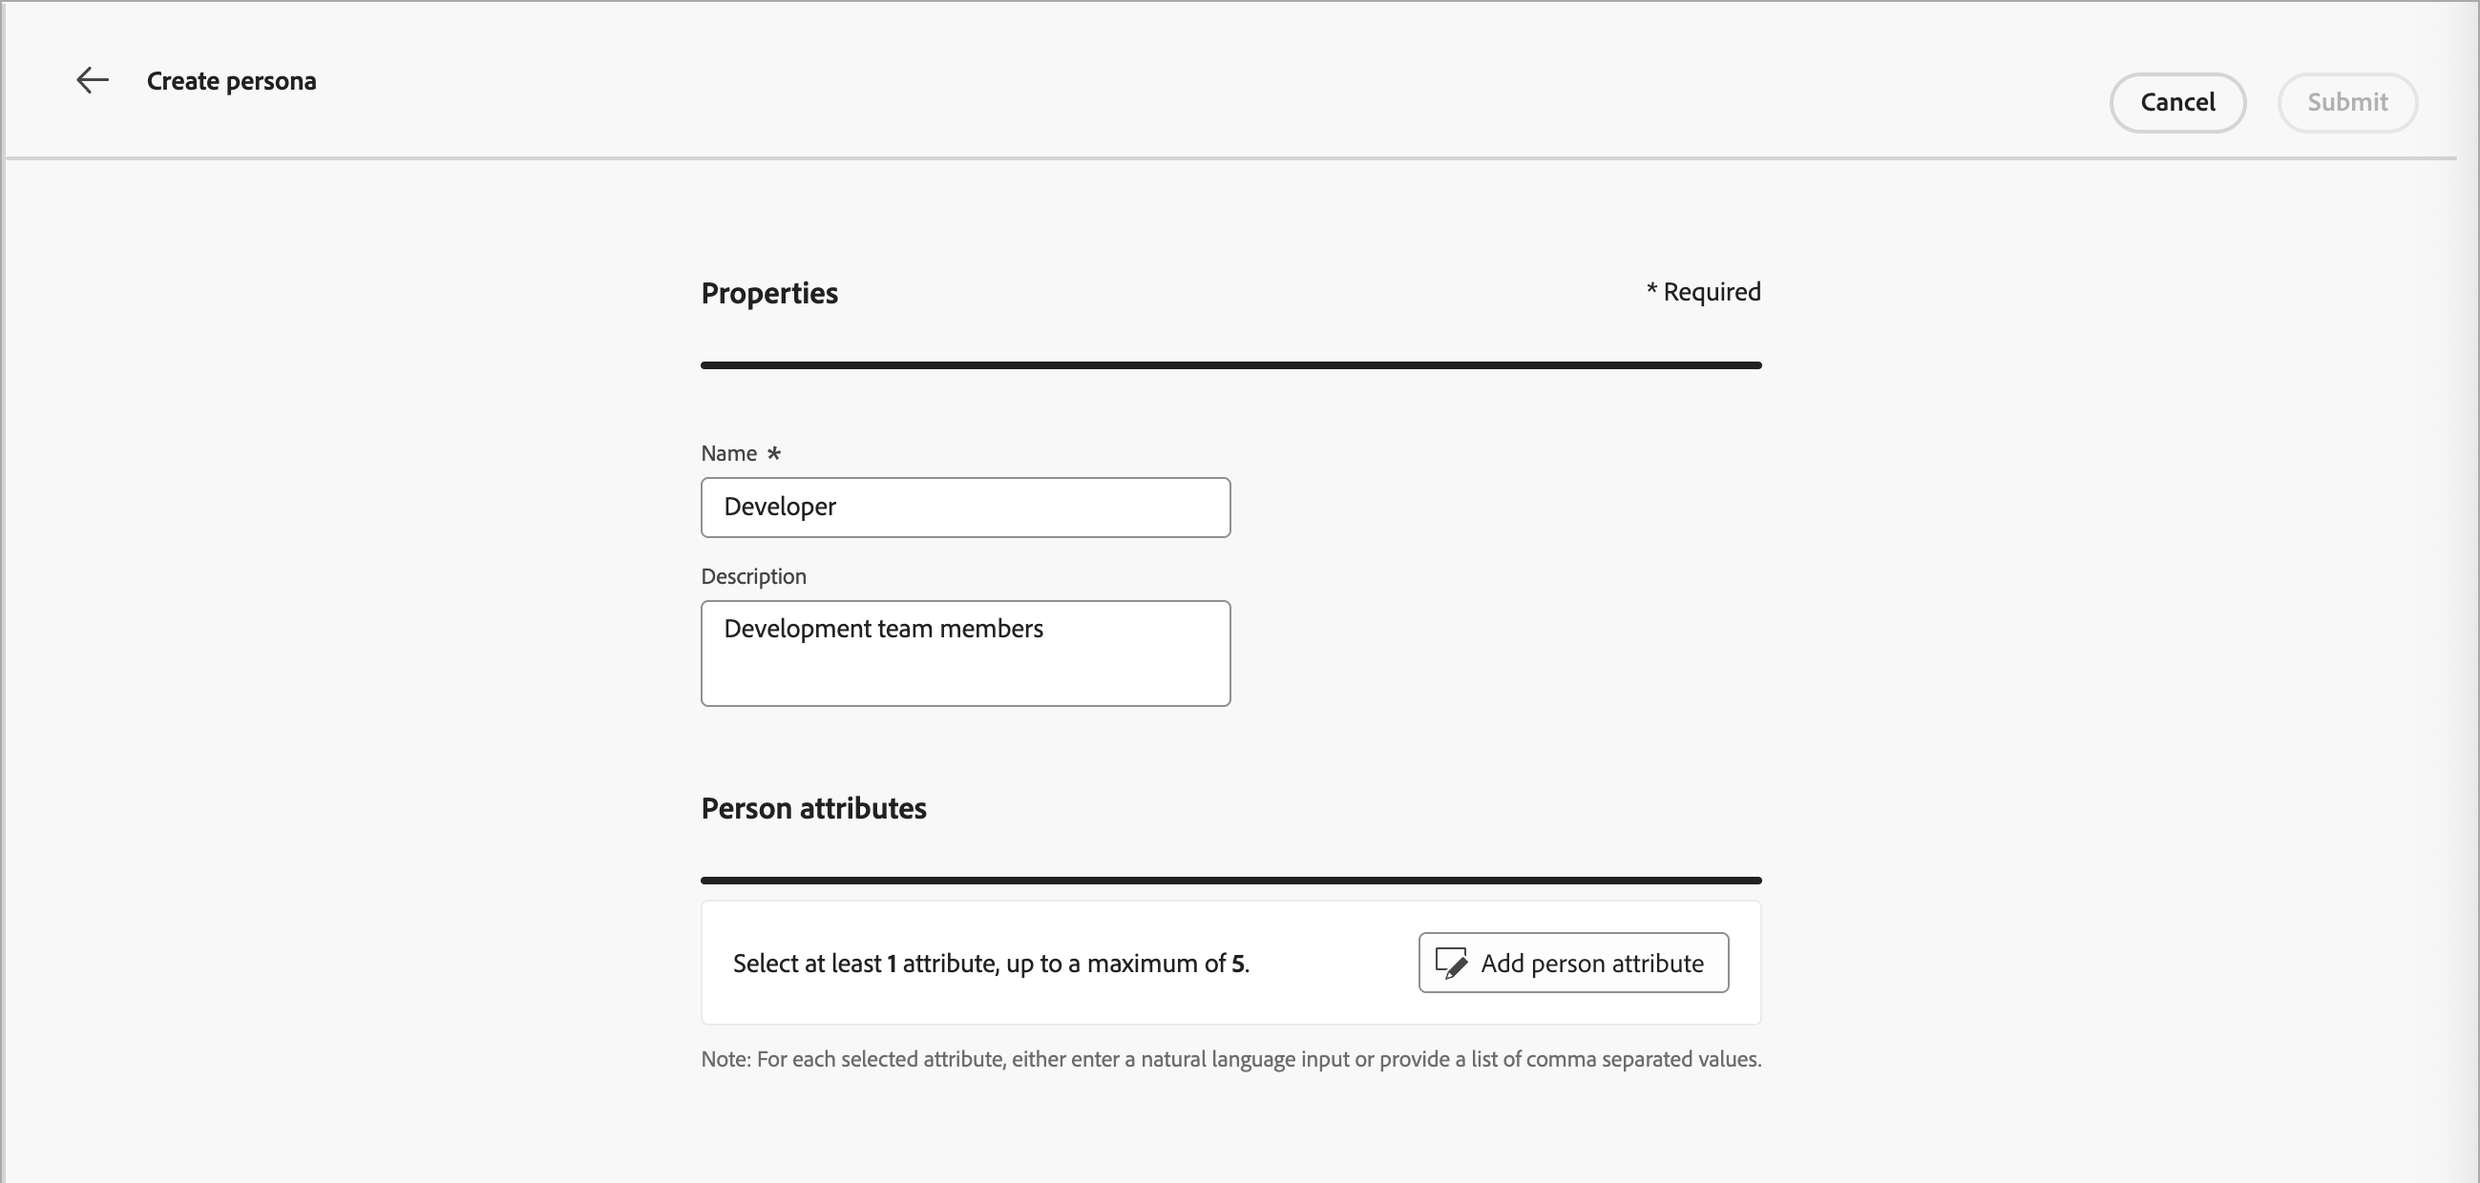
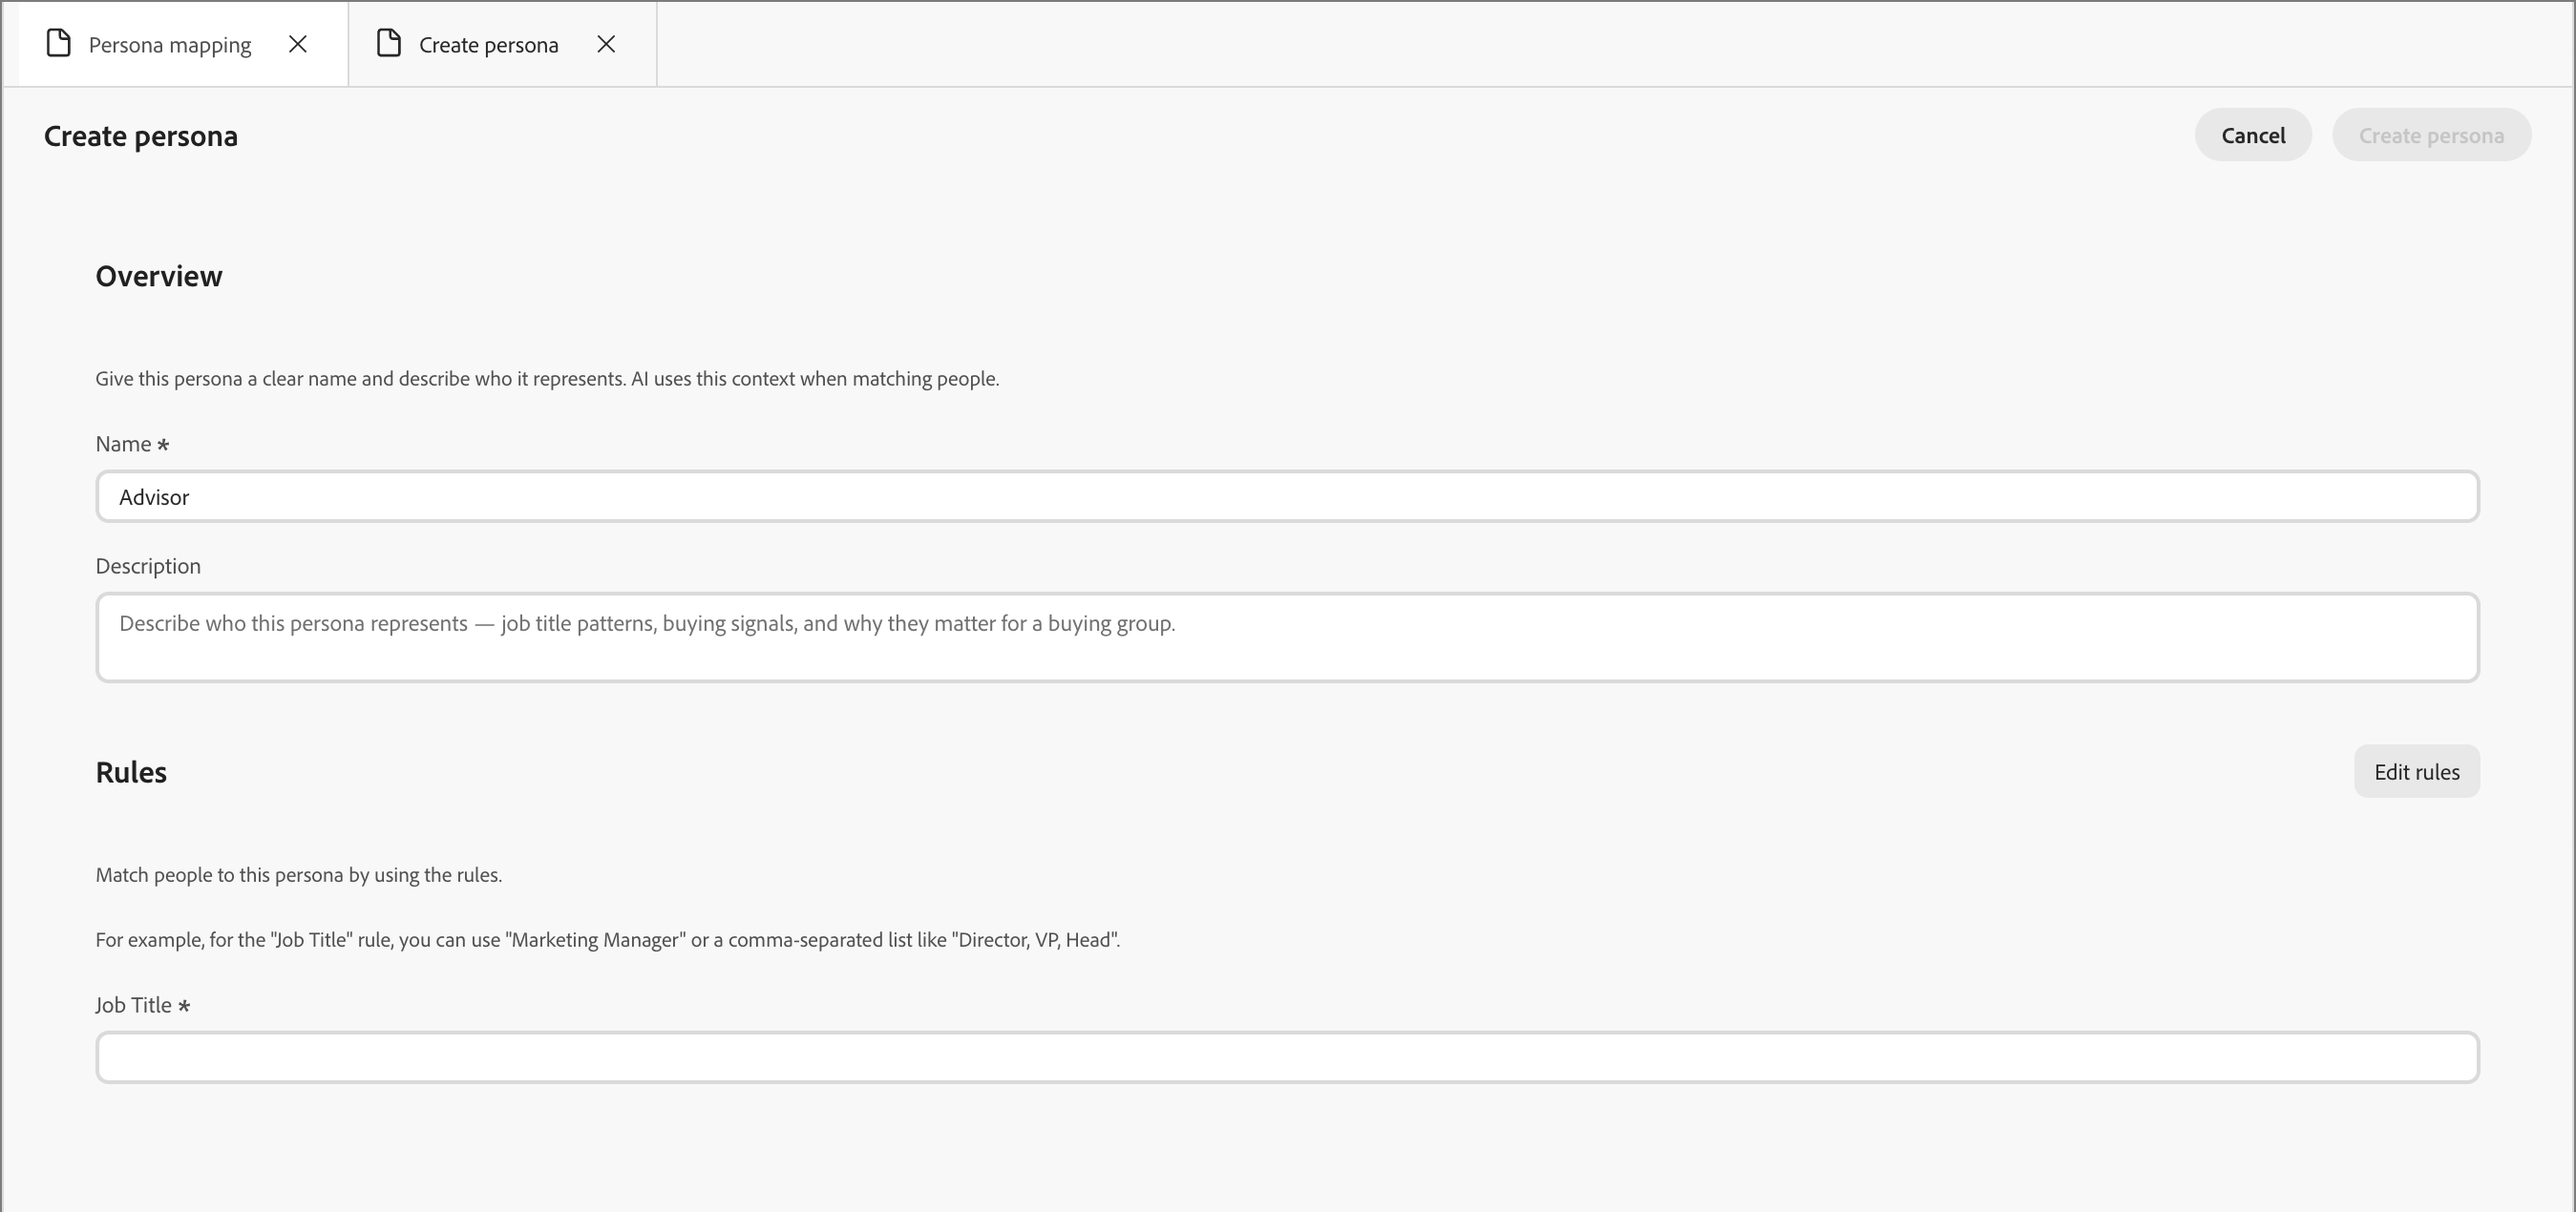
SPHR-33871, Persona mapping

diff --git a/help/user-guide/admin/persona-mapping.md b/help/user-guide/admin/persona-mapping.md
@@ -22,11 +22,9 @@ topic_v2:
 ---
 # Persona mapping
 
-<!-- not available until GA -->
+Personas are a key aspect in an account-based marketing (ABM) approach because they help marketers adjust their strategies to the specific needs, preferences, and pain points of individuals within target accounts. Marketers can create detailed profiles for each persona, including their background, responsibilities, pain points, and preferred communication channels. With these definitions, administrators can configure personas according to person attributes in [!DNL Adobe Marketo Optimizer] so that people lists and person journeys can use streamlined and consistent filtering that captures these personas.
 
-Personas are a key aspect in an account-based marketing (ABM) approach because they help marketers adjust their strategies to the specific needs, preferences, and pain points of individuals within target accounts. Marketers can create detailed profiles for each persona, including their background, responsibilities, pain points, and preferred communication channels. With these definitions, administrators can configure personas according to person attributes in Marketo Optimizer so that people lists and person journeys can use streamlined and consistent filtering that captures these personas.
-
-In Marketo Optimizer, persona mapping provides an additional capability beyond role template conditions: you can filter [people lists](../audiences/people-lists.md) and [person journeys](../marketing/person-journeys.md) using **[!UICONTROL Derived Persona]** as a filter criterion. A _derived persona_ is the persona that the system infers for a person record by evaluating their attributes against all configured persona definitions.
+In [!DNL Marketo Optimizer], persona mapping provides an additional capability beyond role template conditions: you can filter [people lists](../audiences/people-lists.md) and [person journeys](../marketing/person-journeys.md) using **[!UICONTROL Derived Persona]** as a filter criterion. A _derived persona_ is the persona that the system infers for a person record by evaluating their attributes against all configured persona definitions.
 
 Persona definition and usage limitations:
 
@@ -38,64 +36,64 @@ Persona definition and usage limitations:
 
 **Use case: job title variations**
 
-Many marketing and sales teams use job titles as a way to identify different personas within an account. But titles for contacts can be inconsistent and use numerous variations for similar roles. When building people list filters or person journey audience conditions, it can require that you define every possible related job title for a given role. You can simplify these definitions and bring people with similar job titles under one inferred persona, which you can then target by filtering on _Derived Persona is Product Management_ instead of matching individual job title values.
+Many marketing and sales teams use job titles as a way to identify different personas within an account. But titles for contacts can be inconsistent and use numerous variations for similar roles. When building people list filters or person journey audience conditions, you may need to define every possible related job title for a given role. You can simplify these definitions and group people with similar job titles under one inferred persona, which you can then target by filtering on _Derived Persona is Leadership_ instead of matching individual job title values.
 
 >[!ENDSHADEBOX]
 
 ## Access the configured personas {#access}
 
-1. In the left navigation, choose **[!UICONTROL Administration]** > **[!UICONTROL Configurations]**.
+Open the _Persona mapping_ panel from the Coworker [chat interface](../agents/chat-interface.md).
 
-1. Click **[!UICONTROL Persona mapping]** on the intermediate panel to display the list of personas.
+1. In the chat panel, type `/persona-mapping` and press **Enter**.
 
-   ![Access the configured personas](assets/configuration-persona-mapping.png){width="800" zoomable="yes"}
+   This command is a navigation shortcut, listed under **[!UICONTROL Open a page]** in the slash menu.
 
-   From this page, you can [create](#create-a-persona), [edit](#edit-a-persona), or [delete](#delete-a-persona) personas.
+   ![Screenshot of the chat interface slash menu showing the /persona-mapping command under Open a page.](assets/persona-mapping-open-chat.png){width="800" zoomable="yes"}
 
-   The Persona mapping list is organized as a table and displays the most recently updated personas at the top (sorted by _[!UICONTROL Last update]_). You can customize the displayed table by clicking the _Column settings_ ( ![Column settings](../assets/do-not-localize/icon-column-settings.svg) ) icon in the top-right corner and selecting or clearing the column checkboxes.
+1. Coworker opens the **[!UICONTROL Persona mapping]** panel as a workspace tab, showing the list of personas.
 
-   ![Columns to display in the persona mapping list](assets/configuration-persona-mapping-list-columns.png){width="300"}
+   From this panel, you can [create](#create-a-persona), [edit](#edit-a-persona), or [delete](#delete-a-persona) personas.
+
+   The persona list is organized as a table showing each persona name, creation date, and last modified date. <!-- You can customize the displayed table by clicking the _Column settings_ ( ![Column settings](../assets/do-not-localize/icon-column-settings.svg) ) icon in the top-right corner and selecting or clearing the column checkboxes. --> You can minimize the chat panel to increase the size of the _Persona mapping_ panel.
+
+   ![The Persona mapping panel showing a table of default personas and a Create persona button.](assets/persona-mapping-list.png){width="700" zoomable="yes"}
 
 1. To access the details for a persona, click the name.
 
 ### Default personas
 
-The _Persona mapping_ list includes five default personas that are defined according to the job title attribute. You can edit any of these default personas according to the needs of your organization:
+The _Persona mapping_ list includes ten default personas that are defined according to the job title attribute. You can edit any of these default personas according to the needs of your organization:
 
 | Persona | Job titles |
 | ------- | ---------- |
-| CXO / EVP – CXO / Executive Vice President | CEO, CIO, CTO, CMO, CFO, Executive Vice President of Strategy |
-| SVP / VP – Senior Vice President / Vice President | SVP of Marketing, VP of Sales, SVP of Operations, VP of Product, VP of IT |
-| Senior Director / Director – Senior Director / Director | Director of Engineering, Senior Director of Product, Director of Finance, Director of Customer Success |
-| Senior Manager / Manager – Senior Manager / Manager | Senior Marketing Manager, IT Manager, Operations Manager, Sales Manager, HR Manager |
-| Individual Contributor – Individual Contributor | Account Executive, Software Engineer, Marketing Specialist, Customer Success Representative |
-| Analyst – Analyst | Business Analyst, Data Analyst, Market Research Analyst, Financial Analyst, Operations Analyst |
-| Developer – Developer | Front-End Developer, Back-End Developer, Full-Stack Developer, Mobile App Developer, DevOps Engineer |
-| Professional Staff – Professional Staff | HR Specialist, Legal Counsel, Compliance Officer, Project Manager, Procurement Specialist |
-| Consultant – Consultant | Management Consultant, IT Consultant, Business Process Consultant, Marketing Consultant |
-| Other – Other | Industry Specialist, Independent Advisor, Freelance Consultant, Subject Matter Expert |
+| CXO / EVP | CEO, CIO, CTO, CMO, CFO, Executive Vice President of Strategy |
+| SVP / VP | SVP of Marketing, VP of Sales, SVP of Operations, VP of Product, VP of IT |
+| Senior Director / Director | Director of Engineering, Senior Director of Product, Director of Finance, Director of Customer Success |
+| Senior Manager / Manager | Senior Marketing Manager, IT Manager, Operations Manager, Sales Manager, HR Manager |
+| Individual Contributor | Account Executive, Software Engineer, Marketing Specialist, Customer Success Representative |
+| Analyst | Business Analyst, Data Analyst, Market Research Analyst, Financial Analyst, Operations Analyst |
+| Developer | Front-End Developer, Back-End Developer, Full-Stack Developer, Mobile App Developer, DevOps Engineer |
+| Professional Staff | HR Specialist, Legal Counsel, Compliance Officer, Project Manager, Procurement Specialist |
+| Consultant | Management Consultant, IT Consultant, Business Process Consultant, Marketing Consultant |
+| Other | Industry Specialist, Independent Advisor, Freelance Consultant, Subject Matter Expert |
 
 ### List filtering
 
 To locate the persona that you want, enter a text string into the search bar to match personas by name.
 
-![Filter the displayed persona mappings](assets/configuration-persona-mapping-search.png){width="700" zoomable="yes"}
+![Search field filtering the persona list by name, showing two matching results.](assets/configuration-persona-mapping-search.png){width="680" zoomable="yes"}
 
 ## Create a persona {#create-a-persona}
-
-1. In the left navigation, choose **[!UICONTROL Administration]** > **[!UICONTROL Configuration]**.
-
-1. Click **[!UICONTROL Persona mapping]** in the intermediate panel.
 
 1. Click **[!UICONTROL Create persona]**.
 
 1. Enter a unique **[!UICONTROL Name]** and **[!UICONTROL Description]** (optional) for the persona.
 
-   ![Create a persona mapping](assets/configuration-persona-mapping-new.png){width="700" zoomable="yes"}
+   ![Create persona panel with Name and Description fields and a Rules section for selecting attributes.](assets/configuration-persona-mapping-new.png){width="680" zoomable="yes"}
 
-1. Select the attributes to use for matching the persona.
+1. For **[!UICONTROL Rules]**, select the attributes to use for matching the persona.
 
-   * Click **[!UICONTROL Select person attributes]**.
+   * Click **[!UICONTROL Edit rules]**.
 
    * In the dialog, select the checkbox for each attribute that you want to map (a maximum of five).
 
@@ -103,15 +101,15 @@ To locate the persona that you want, enter a text string into the search bar to 
 
       To filter the attribute list by name, enter a text string into the search bar. You can also click the _Filter_ ( ![Filter icon](../assets/do-not-localize/icon-filter.svg) ) icon at the top left to filter the displayed list by type, _Standard_ or _Custom_.
 
-      ![Select persona attributes dialog](assets/configuration-persona-mapping-select-attributes.png){width="700" zoomable="yes"}
+      ![Dialog listing person attributes with checkboxes, usage status, and attribute type columns.](assets/configuration-persona-mapping-select-attributes.png){width="450" zoomable="yes"}
 
-   * Click **[!UICONTROL Save]**.
+   * Click **[!UICONTROL Done]**.
 
      The selected attributes are populated in the _[!UICONTROL Persona attributes]_ section.
 
-1. For each attribute, enter the comma-separated values that you want to match for the attribute.
+   * For each attribute, enter the comma-separated values that you want to match for the attribute.
 
-1. Click **[!UICONTROL Submit]**.
+1. Click **[!UICONTROL Create persona]**.
 
 ## Edit a persona {#edit-a-persona}
 
@@ -131,19 +129,23 @@ Deleting a persona removes it from the _Persona mapping_ list and it is no longe
 
 ## Filter by Derived Persona {#derived-persona-filter}
 
-After personas are configured, Marketo Optimizer derives a persona for each person record by evaluating the record's attributes against the defined persona mappings. You can use the inferred result — the _Derived Persona_ — as a filter when defining the audience for a people list or a person journey.
+After personas are configured, [!DNL Marketo Optimizer] derives a persona for each person record by evaluating the record's attributes against the defined persona mappings. You can use the inferred result — the _Derived Persona_ — as a filter when defining the audience for a people list or a person journey.
 
-The Derived Persona filter appears in the filter panel under the **[!UICONTROL Special filters]** category alongside other inferred attributes such as journey membership.
+The Derived Persona filter appears in the filter panel under the **[!UICONTROL Person attributes]** category alongside other inferred attributes such as journey membership.
 
 ### People lists
 
-When you add or remove members from a static people list, or when you define the membership rules for a dynamic people list, you can filter by Derived Persona to target all people whose attributes match a specific configured persona.
+To target people matching a specific configured persona when managing people lists, you can filter by Derived Persona.
 
 **Static list — Add members**
 
 1. Open the static list and click **[!UICONTROL Add people]** at the top right.
 
-1. In the filter dialog, expand **[!UICONTROL Special filters]** and drag **[!UICONTROL Derived Persona]** onto the canvas.
+1. In the filter dialog, expand **[!UICONTROL Person attributes]** and drag **[!UICONTROL Derived Persona]** onto the canvas.
+
+   You can also enter the filter name in the search field to locate it quickly.
+
+   ![Derived Persona filter added to the people list filter canvas with persona options to select.](assets/persona-mapping-derived-persona-filter.png){width="680" zoomable="yes"}
 
 1. In the filter condition, choose **[!UICONTROL is]** and select one or more personas from the list.
 
@@ -155,7 +157,9 @@ When you add or remove members from a static people list, or when you define the
 
 1. Click **[!UICONTROL Edit rules]**.
 
-1. In the filter dialog, expand **[!UICONTROL Special filters]** and drag **[!UICONTROL Derived Persona]** onto the canvas.
+1. In the filter dialog, expand **[!UICONTROL Person attributes]** and drag **[!UICONTROL Derived Persona]** onto the canvas.
+
+   You can also enter the filter name in the search field to locate it quickly.
 
 1. In the filter condition, choose **[!UICONTROL is]** and select one or more personas from the list.
 
@@ -173,8 +177,14 @@ When you configure the audience for a person journey using an event audience, yo
 
 1. Under **[!UICONTROL Person profile filters]**, click **[!UICONTROL Add filter]**.
 
-1. Expand **[!UICONTROL Special filters]** and drag **[!UICONTROL Derived Persona]** onto the filter canvas.
+1. Expand **[!UICONTROL Person attributes]** and drag **[!UICONTROL Derived Persona]** onto the filter canvas.
+
+   You can also enter the filter name in the search field to locate it quickly.
+
+   ![Derived Persona filter added to a person journey event audience filter canvas.](assets/persona-mapping-derived-persona-event-filter.png){width="680" zoomable="yes"}
 
 1. In the filter condition, choose **[!UICONTROL is]** and select one or more personas from the list.
 
    Only people whose derived persona matches the selected values are eligible to enter the journey.
+
+1. Click **[!UICONTROL Save]** to save the event criteria.

diff --git a/help/user-guide/TOC.md b/help/user-guide/TOC.md
@@ -93,7 +93,4 @@ nudge: red
       + [Form preset configuration](./admin/configuration-presets-forms.md)
    + [Business rules](./admin/business-rules.md)
    + [Program types](./admin/program-types.md)
-
-<!--
    + [Persona mapping](./admin/persona-mapping.md)
--->
